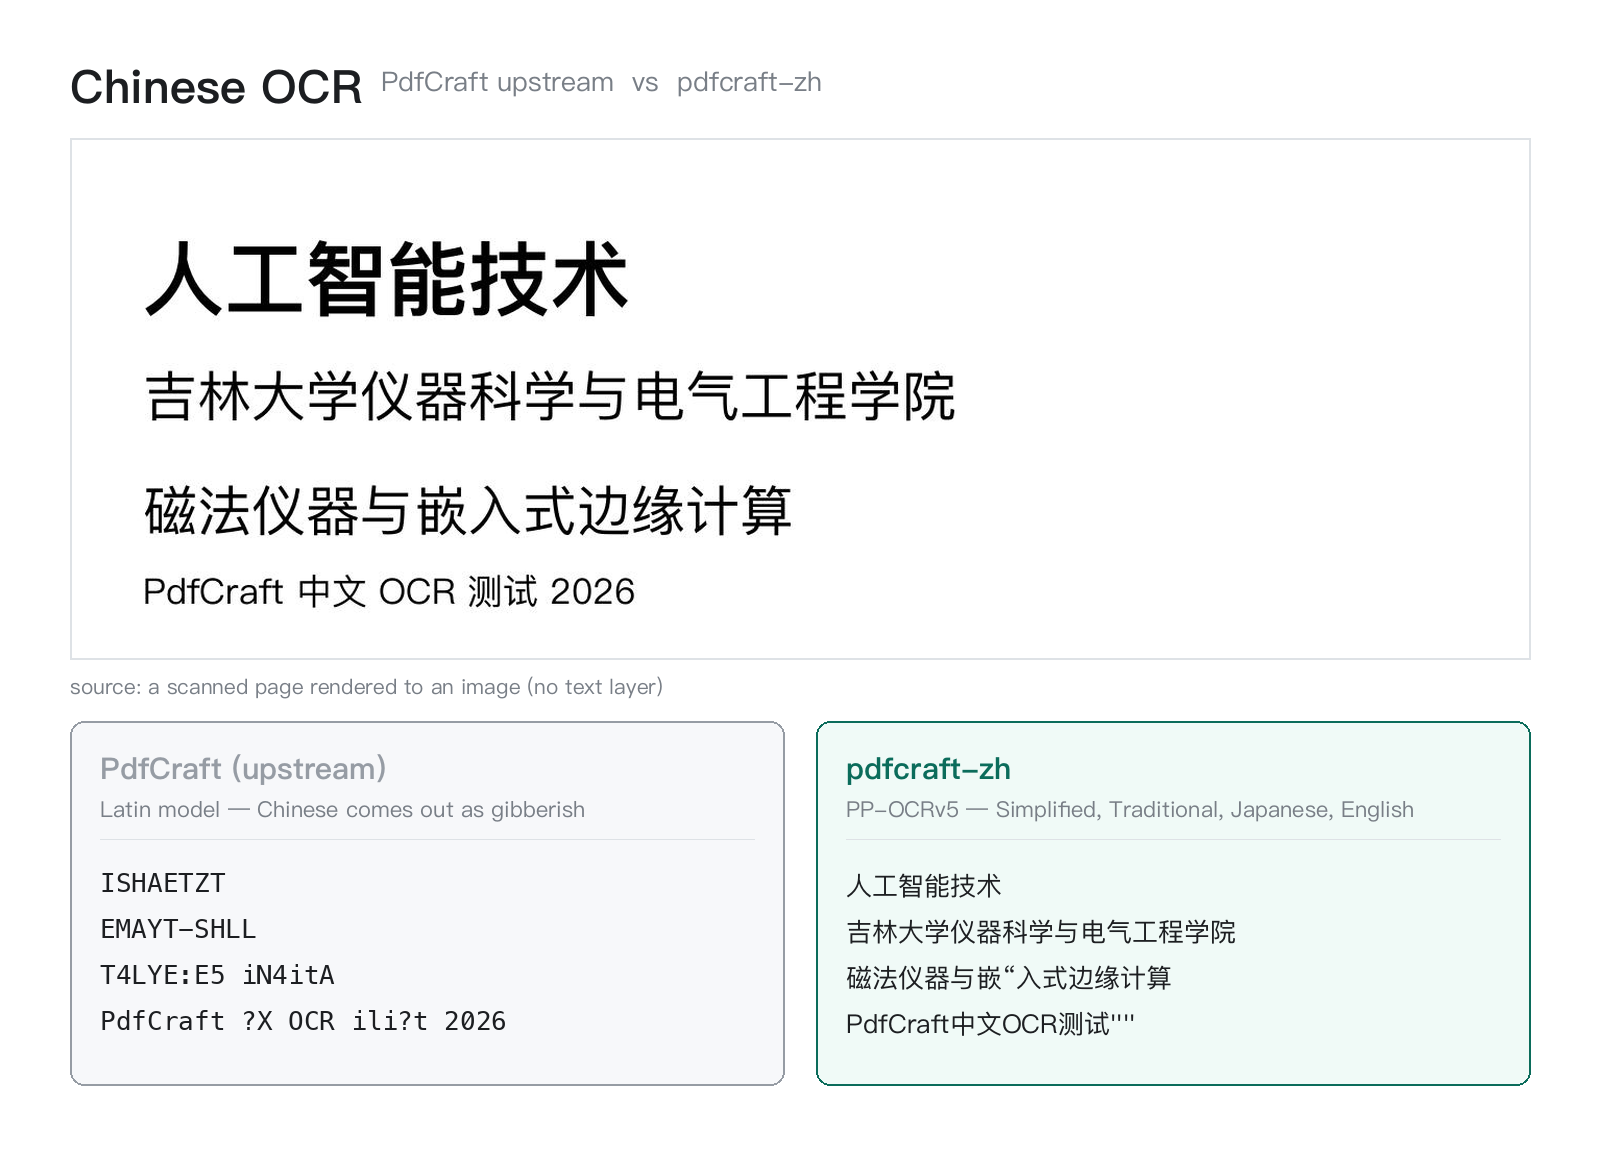
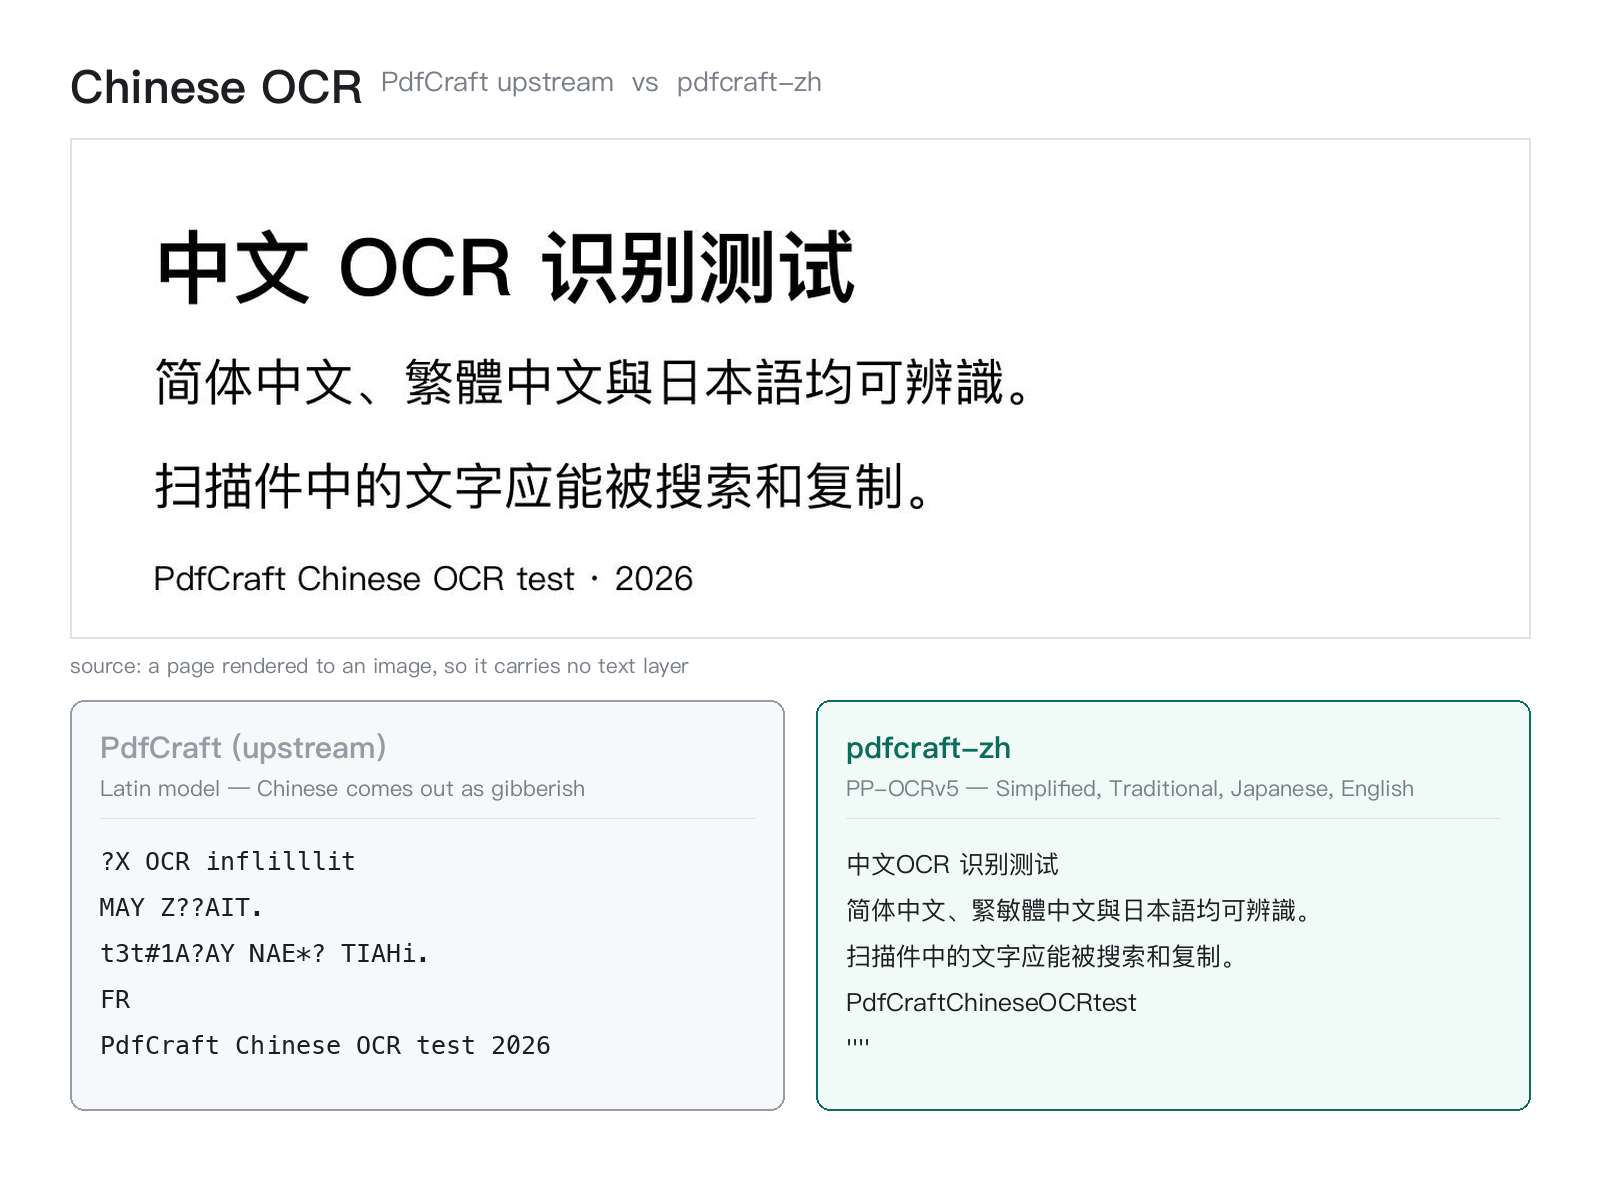
Fix a hard-coded path that would have broken every other machine
crates/ocr/Cargo.toml pointed the ocrs-cjk dependency at an absolute
path under the author's home directory. That path happened to exist on
the machine the patch was developed on, so the build passed there — and
would have failed immediately for anyone else.

It is now relative to the crate: ../../../vendor/ocrs-cjk/ocrs, which is
exactly where the script clones ocrs-cjk to.

The same absolute path also leaked a username, so this fixes both.

Also replaces the OCR comparison image. The previous sample text named a
real university and research group; the new sample is neutral.

Verified with a full build in a real (non-symlinked) working directory,
not only through the symlinked shortcut used during development.

diff --git a/pdfcraft-zh.py b/pdfcraft-zh.py
@@ -255,7 +255,7 @@ index 84801d5..5c872ac 100644
  fn stream_data(doc: &Document, object: Option<&Object>) -> Option<Vec<u8>> {
      match doc.resolve(object?).as_ref() {
 diff --git a/crates/ocr/Cargo.toml b/crates/ocr/Cargo.toml
-index 46bb3a1..cd8ef28 100644
+index 46bb3a1..eb00fca 100644
 --- a/crates/ocr/Cargo.toml
 +++ b/crates/ocr/Cargo.toml
 @@ -1,3 +1,7 @@
@@ -272,7 +272,7 @@ index 46bb3a1..cd8ef28 100644
  pdfcraft-fonts = { workspace = true }
 -ocrs = { version = "0.13.1", default-features = false, features = ["rten"] }
 -rten = { version = "0.26.0", default-features = false, features = ["rten_format"] }
-+ocrs-cjk = { path = "/Users/wangjunwei/Desktop/pdfcraft-zh-assets/ocrs-cjk/ocrs", default-features = false, features = ["onnx"] }
++ocrs-cjk = { path = "../../../vendor/ocrs-cjk/ocrs", default-features = false, features = ["onnx"] }
 +rten = { version = "0.26.0", default-features = false, features = ["rten_format", "onnx_format"] }
  thiserror.workspace = true
 diff --git a/crates/ocr/src/lib.rs b/crates/ocr/src/lib.rs

diff --git a/COMPLIANCE.zh-CN.md b/COMPLIANCE.zh-CN.md
@@ -2,7 +2,7 @@
 
 说明这个补丁为什么可以分发，以及各项许可证对它的要求。
 
-一句话版本：**补丁里不含任何 PdfCraft 代码，编译在用户自己的机器上完成，组装出的应用
+简要的说：**补丁里不含任何 PdfCraft 代码，编译在用户自己的机器上完成，组装出的应用
 附带所有适用的许可证、声明与署名。**
 
 [English](COMPLIANCE.md)
@@ -28,7 +28,7 @@
 | ocrs-cjk 引擎 | MIT OR Apache-2.0 | 保留版权与许可证 | 作为 Cargo 依赖编译进去。它的许可证与 PdfCraft 相同（MIT / Apache-2.0），已由随包的两份文本覆盖 |
 | PdfCraft 应用图标 | MIT OR Apache-2.0 | 保留版权与许可证；标注修改 | `licenses/ICON.txt` 说明来源，并注明所做的唯一修改（每个尺寸上叠加了一个中文角标） |
 
-## 几个容易出问题的点
+## 几个值得关注的点
 
 ### 商标
 
@@ -51,7 +51,7 @@
 
 ### CC-BY-SA-4.0 的 ShareAlike 不会传染
 
-检测模型是逐字节原样再分发的。它与 MIT 许可的代码构成**聚合（aggregation）**，
+检测模型是逐字节原样再分发的。它与 MIT 许可的代码构成**聚合**，
 而不是衍生作品，因此不要求整个应用改用 CC-BY-SA 许可。
 
 ## 安装后的应用里，许可证放在哪

diff --git a/COMPLIANCE.md b/COMPLIANCE.md
@@ -29,7 +29,7 @@ Nothing is redistributed by the patch repository except the files listed under
 | ocrs-cjk engine | MIT OR Apache-2.0 | Keep the copyright and licence | Compiled in as a Cargo dependency. Its licence is the same MIT/Apache-2.0 pair already shipped for PdfCraft |
 | PdfCraft application icon | MIT OR Apache-2.0 | Keep the copyright and licence; indicate modification | `licenses/ICON.txt` states the origin and the one change made (a CJK badge was composited onto each size) |
 
-## Points that commonly go wrong
+## Points worth noting
 
 ### Trademarks
 
